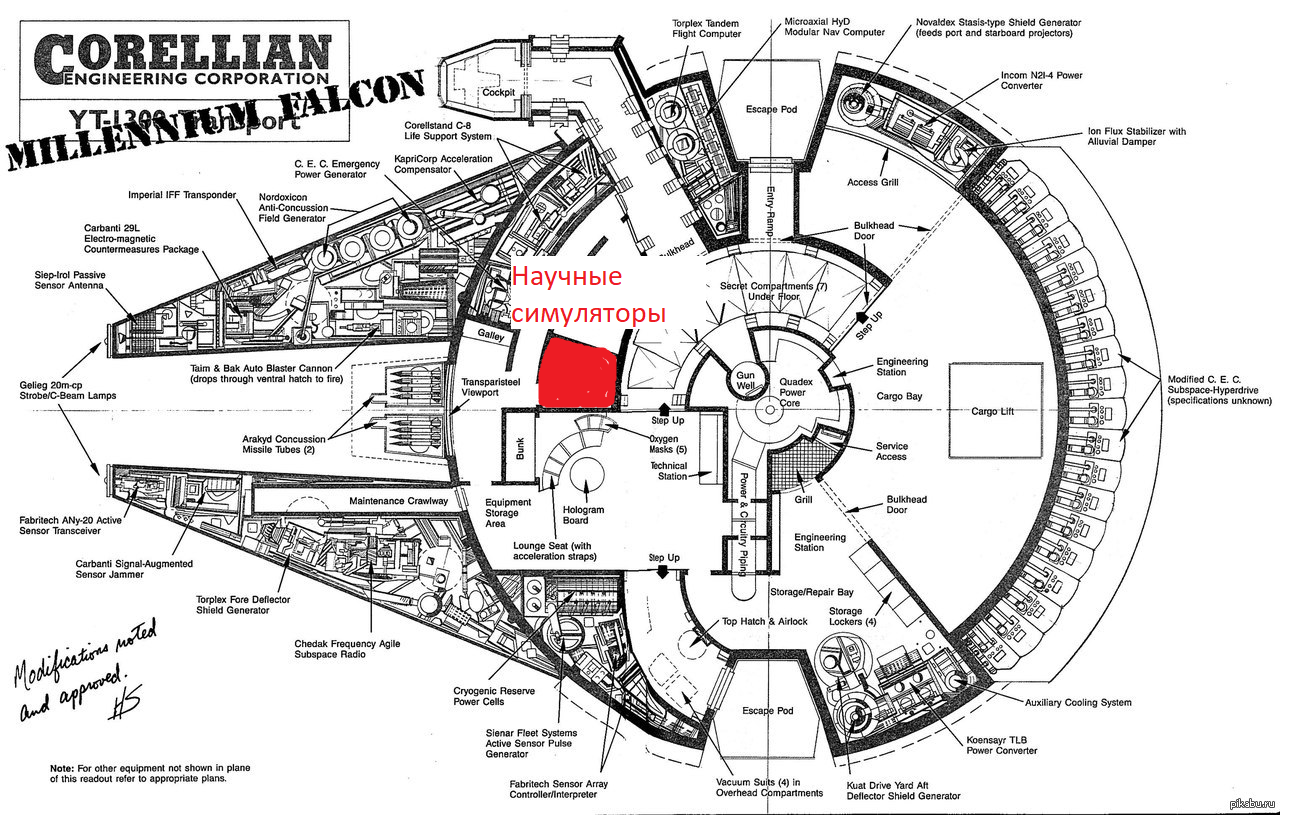
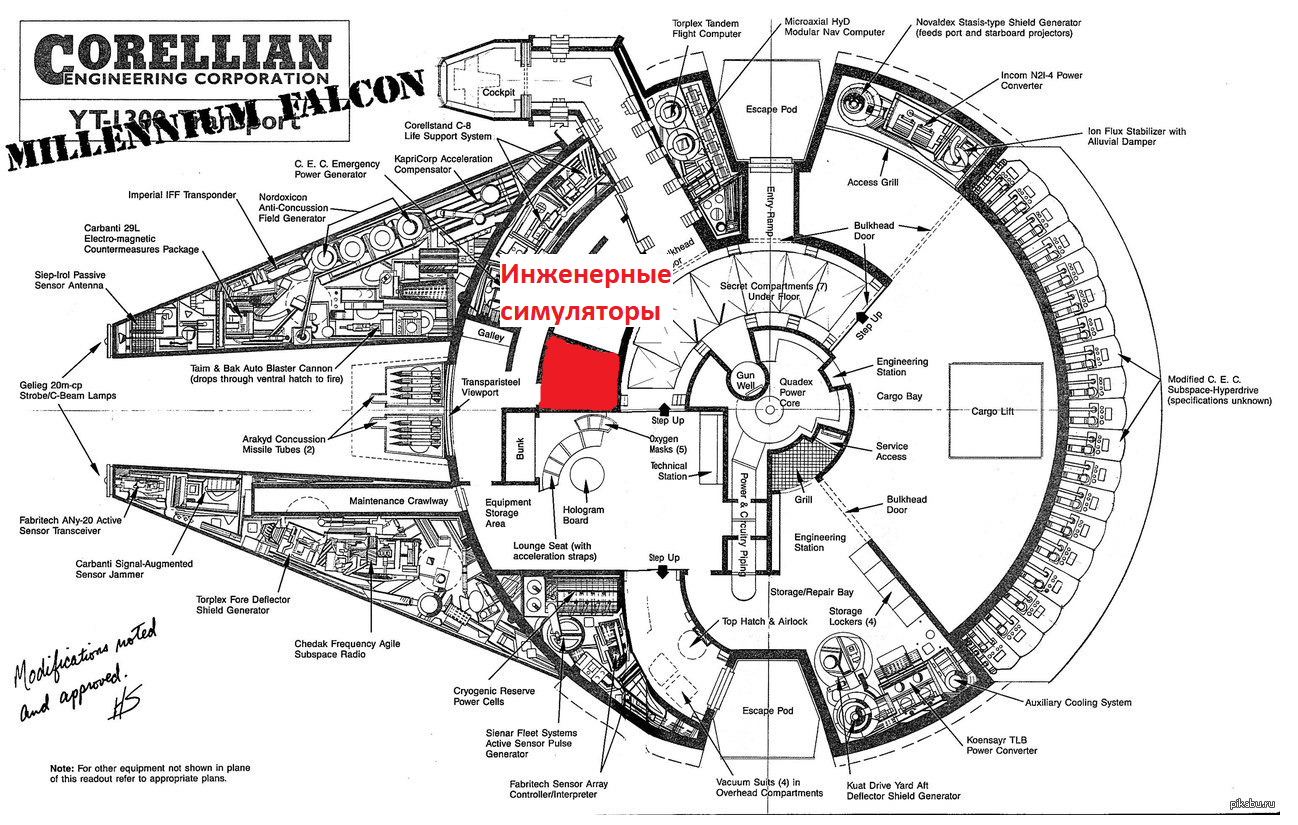
Add list of professions

Changed region(s): [[0.3698, 0.303, 0.5547, 0.4242], [0.4622, 0.4242, 0.4931, 0.4545], [0.4314, 0.4848, 0.4622, 0.5152]]

diff --git a/solution/templates/professions.html b/solution/templates/professions.html
@@ -1,0 +1,19 @@
+{% extends "index.html" %}
+
+{% block content %}
+{% set profs = ['Инженер-исследователь', 'Пилот', 'Строитель',
+                'Экзобиолог', 'Врач', 'Инженер по терраформированию',
+                'Климатолог', 'Специалист по радиционной защите'] %}
+{% if list == 'ol' %}
+        <ul><h2>Список профессий</h2>
+    {% for prof in profs %}
+        <ul><p>{{ loop.index }}. {{ prof }}</p></ul>
+    {% endfor %}</ul>
+{% elif list == 'ul' %}
+        <ul><h2>Список профессий</h2>
+    {% for prof in profs %}
+        <ul><li><p>{{ prof }}</p></li></ul>
+    {% endfor %}</ul>
+{% else %} <ul><h2>Параметр введен неверно</h2>
+{% endif %}
+{% endblock %}

diff --git a/solution/templates/training.html b/solution/templates/training.html
@@ -2,10 +2,10 @@
 
 {% block content %}
 {% if 'инженер' in prof.lower() or 'строитель' in prof.lower() %}
-    <h2> Инженерные симуляторы </h2>
+    <h2><ul>Инженерные симуляторы</ul></h2>
     <img src="../../static/images/Инженерные симуляторы.png">
 {% else %}
-    <h2> Научные симуляторы </h2>
+    <h2><ul>Научные симуляторы</ul></h2>
     <img src="../../static/images/Научные симуляторы.png">
 {% endif %}
 {% endblock %}

diff --git a/solution/templates/index.html b/solution/templates/index.html
@@ -4,9 +4,9 @@
     <meta charset="UTF-8">
         <title>{{ title }}</title>
     </head>
-    <body><center>
+    <body>
         <h1>Миссия Колонизация Марса</h1>
         <h4>И на Марсе будут яблоки цвести!</h4>
         {% block content %}{% endblock %}
-    </center>></body>
+    </body>
 </html>

diff --git a/solution/main.py b/solution/main.py
@@ -15,4 +15,9 @@ def training(prof):
     return render_template('training.html', prof=prof)
 
 
-app.run(port=8080, host='127.0.0.1')
+@app.route('/list_prof/<list>')
+def professions(list):
+    return render_template('professions.html', list=list)
+
+
+app.run(port=8070, host='127.0.0.1')
